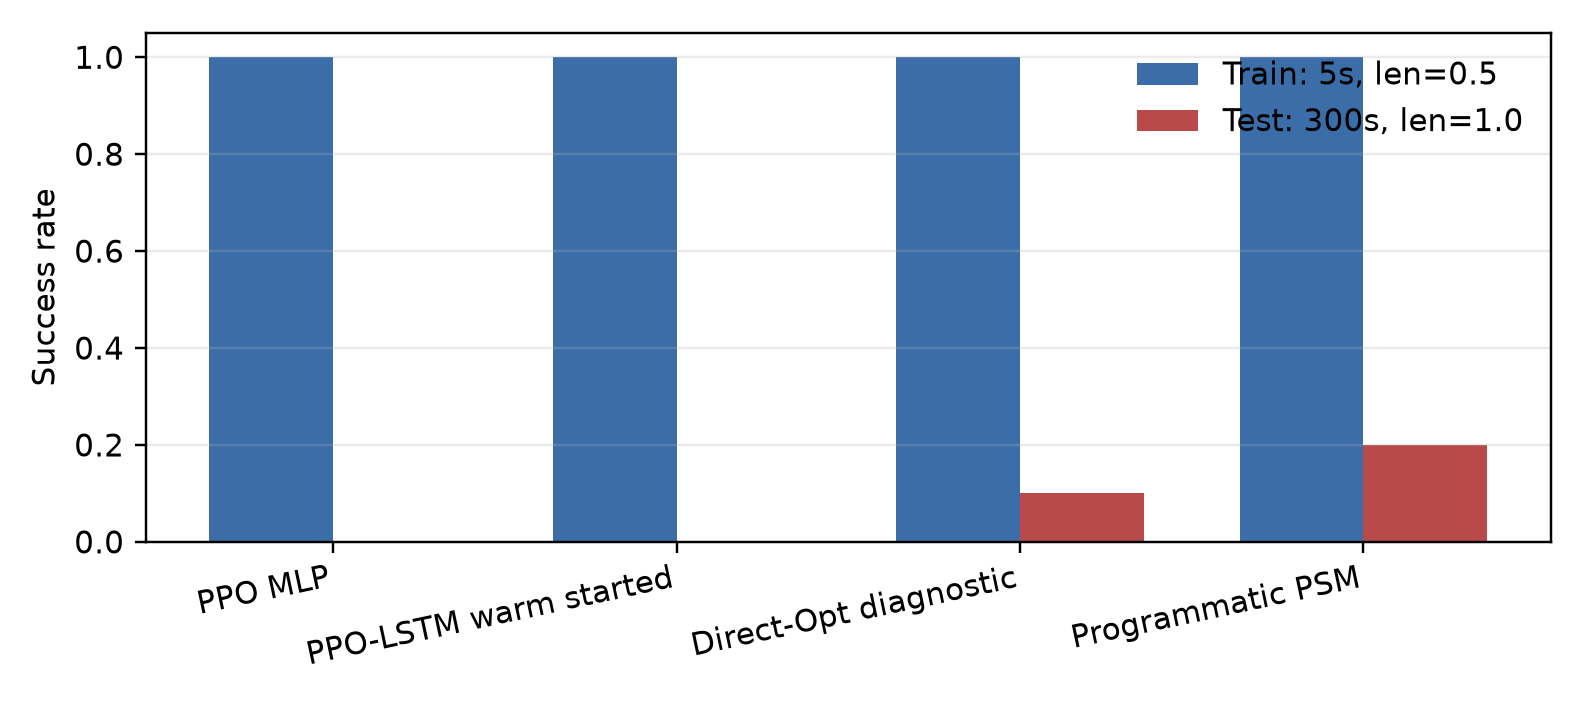
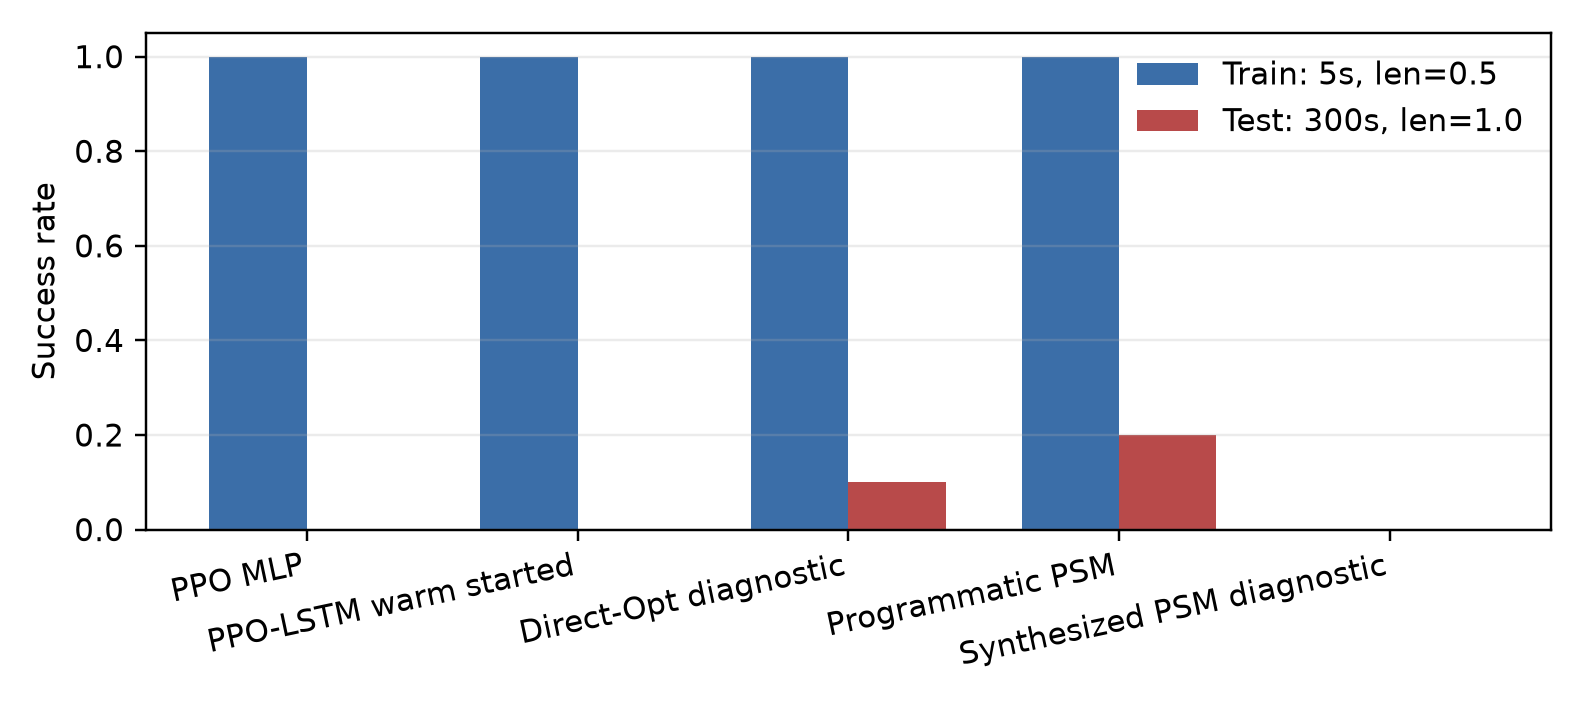
Add CartPole output provenance guards

diff --git a/tests/test_make_paper_figures.py b/tests/test_make_paper_figures.py
@@ -19,6 +19,23 @@ class MakePaperFiguresTest(unittest.TestCase):
         make_paper_figures.require_result_artifacts(rows)
         self.assertTrue(all(row.get("metrics_output") for row in rows))
 
+    def test_essay_manifest_lists_generated_cartpole_artifacts(self):
+        with open(os.path.join(ROOT, "essay", "00README.json"), encoding="utf-8") as handle:
+            manifest = json.load(handle)
+
+        filenames = {source["filename"] for source in manifest["sources"]}
+
+        self.assertIn("cartpole_abstract_results.tex", filenames)
+        self.assertIn("cartpole_results_table.tex", filenames)
+        self.assertIn("cartpole_policy_fragment.tex", filenames)
+        self.assertIn("figures/cartpole_success_rates.png", filenames)
+        self.assertIn("figures/cartpole_test_survival_reward.png", filenames)
+        self.assertIn("figures/programmatic_switch_boundary.png", filenames)
+        self.assertEqual(
+            manifest["process"]["regenerate_generated_artifacts"],
+            ".venv/bin/python scripts/make_paper_figures.py",
+        )
+
     def test_read_results_prefers_summary_csv(self):
         with tempfile.TemporaryDirectory() as tmpdir:
             results_path = os.path.join(tmpdir, "cartpole_results.csv")
@@ -101,6 +118,23 @@ class MakePaperFiguresTest(unittest.TestCase):
                 [{"policy": "PPO MLP", "metrics_output": metrics_path}]
             )
 
+    def test_require_result_artifacts_rejects_short_test_horizon(self):
+        with tempfile.TemporaryDirectory() as tmpdir:
+            metrics_path = os.path.join(tmpdir, "metrics.json")
+            with open(metrics_path, "w", encoding="utf-8") as handle:
+                json.dump({"selected_result": {}}, handle)
+
+            with self.assertRaises(ValueError):
+                make_paper_figures.require_result_artifacts(
+                    [
+                        {
+                            "policy": "PPO MLP",
+                            "metrics_output": metrics_path,
+                            "test_horizon_steps": "100",
+                        }
+                    ]
+                )
+
     def test_require_result_artifacts_rejects_missing_outputs(self):
         with self.assertRaises(FileNotFoundError):
             make_paper_figures.require_result_artifacts(
@@ -126,6 +160,8 @@ class MakePaperFiguresTest(unittest.TestCase):
                 table = handle.read()
 
         self.assertIn("Generated by scripts/make_paper_figures.py", table)
+        self.assertIn("Local diagnostic artifacts only", table)
+        self.assertIn(r"10\textsuperscript{7}-timestep, five-seed PPO/PPO-LSTM protocol", table)
         self.assertIn("Programmatic PSM & 1.00 & 0.20 & 250.0 & 6275.4", table)
         self.assertIn("\\bottomrule", table)
 
@@ -153,6 +189,7 @@ class MakePaperFiguresTest(unittest.TestCase):
                 fragment = handle.read()
 
         self.assertTrue(wrote)
+        self.assertIn("Local diagnostic artifacts only", fragment)
         self.assertIn("feed-forward PPO reaches 100\\% training success", fragment)
         self.assertNotIn("20 rollouts", fragment)
         self.assertIn("obtains 0\\% success", fragment)

diff --git a/scripts/make_paper_figures.py b/scripts/make_paper_figures.py
@@ -31,6 +31,12 @@ LINEAR_SWITCH_RE = re.compile(
     r"(?P<omega>[-+]?\d+(?:\.\d+)?)\*omega >= "
     r"(?P<threshold>[-+]?\d+(?:\.\d+)?)"
 )
+PAPER_TEST_HORIZON_STEPS = 15_000
+LOCAL_DIAGNOSTIC_NOTE = (
+    "Local diagnostic artifacts only; not a paper-scale reproduction of the "
+    "10^7-timestep, five-seed PPO/PPO-LSTM protocol."
+)
+LOCAL_DIAGNOSTIC_TEX_NOTE = LOCAL_DIAGNOSTIC_NOTE.replace("10^7", r"10\textsuperscript{7}")
 
 
 def read_results() -> list[dict[str, str]]:
@@ -59,6 +65,17 @@ def require_result_artifacts(rows: list[dict[str, str]]) -> None:
             "missing result artifacts for generated paper claims: "
             + ", ".join(missing)
         )
+    short_horizon = [
+        row["policy"]
+        for row in rows
+        if row.get("test_horizon_steps")
+        and int(float(row["test_horizon_steps"])) != PAPER_TEST_HORIZON_STEPS
+    ]
+    if short_horizon:
+        raise ValueError(
+            "result rows are not evaluated on the paper 300-second test horizon: "
+            + ", ".join(short_horizon)
+        )
 
 
 def display_policy(name: str) -> str:
@@ -79,6 +96,7 @@ def percent(value: float) -> str:
 def write_results_table(rows: list[dict[str, str]], outpath: str = TABLE_TEX) -> None:
     lines = [
         "% Generated by scripts/make_paper_figures.py from CartPole result artifacts.",
+        f"% {LOCAL_DIAGNOSTIC_NOTE}",
         "\\begin{tabular}{lrrrr}",
         "\\toprule",
         "Policy & Train succ. & Test succ. & Train rew. & Test rew. \\\\",
@@ -92,7 +110,14 @@ def write_results_table(rows: list[dict[str, str]], outpath: str = TABLE_TEX) ->
             f"{metric(row, 'train_reward'):.1f} & "
             f"{metric(row, 'test_reward'):.1f} \\\\"
         )
-    lines.extend(["\\bottomrule", "\\end{tabular}", ""])
+    lines.extend(
+        [
+            "\\bottomrule",
+            "\\end{tabular}",
+            f"\\par\\smallskip\\noindent\\emph{{Note:}} {LOCAL_DIAGNOSTIC_TEX_NOTE}",
+            "",
+        ]
+    )
     with open(outpath, "w", encoding="utf-8") as handle:
         handle.write("\n".join(lines))
 
@@ -118,6 +143,7 @@ def write_abstract_results(rows: list[dict[str, str]], outpath: str = ABSTRACT_R
     psm_test_reward = metric(psm, "test_reward")
     lines = [
         "% Generated by scripts/make_paper_figures.py from CartPole result artifacts.",
+        f"% {LOCAL_DIAGNOSTIC_NOTE}",
         (
             f"In local diagnostics, feed-forward PPO reaches {percent(ppo_train)} training success "
             f"and obtains {percent(ppo_test)} success on the full 300-second test horizon with "

diff --git a/essay/cartpole_results_table.tex b/essay/cartpole_results_table.tex
@@ -1,4 +1,5 @@
 % Generated by scripts/make_paper_figures.py from CartPole result artifacts.
+% Local diagnostic artifacts only; not a paper-scale reproduction of the 10^7-timestep, five-seed PPO/PPO-LSTM protocol.
 \begin{tabular}{lrrrr}
 \toprule
 Policy & Train succ. & Test succ. & Train rew. & Test rew. \\
@@ -7,5 +8,7 @@ PPO MLP & 1.00 & 0.00 & 250.0 & 910.6 \\
 PPO-LSTM warm started & 1.00 & 0.00 & 250.0 & 912.2 \\
 Direct-Opt diagnostic & 1.00 & 0.10 & 250.0 & 4220.1 \\
 Programmatic PSM & 1.00 & 0.20 & 250.0 & 6275.4 \\
+Synthesized PSM diagnostic & 0.00 & 0.00 & 39.5 & 64.8 \\
 \bottomrule
 \end{tabular}
+\par\smallskip\noindent\emph{Note:} Local diagnostic artifacts only; not a paper-scale reproduction of the 10\textsuperscript{7}-timestep, five-seed PPO/PPO-LSTM protocol.

diff --git a/essay/cartpole_abstract_results.tex b/essay/cartpole_abstract_results.tex
@@ -1,2 +1,3 @@
 % Generated by scripts/make_paper_figures.py from CartPole result artifacts.
+% Local diagnostic artifacts only; not a paper-scale reproduction of the 10^7-timestep, five-seed PPO/PPO-LSTM protocol.
 In local diagnostics, feed-forward PPO reaches 100\% training success and obtains 0\% success on the full 300-second test horizon with mean test reward 910.6. The fixed programmatic state machine reaches 100\% training success, obtains 20\% full-horizon test success, and has mean test reward 6275.4.

diff --git a/docs/cartpole_paper_audit.md b/docs/cartpole_paper_audit.md
@@ -222,7 +222,8 @@ split locally. They still do not reproduce the paper-scale PPO/PPO-LSTM protocol
   `essay/cartpole_policy_fragment.tex` and plotting
   `programmatic_switch_boundary.png`; it writes an explicit fallback fragment and skips that figure
   when only non-linear/Boolean-tree switch descriptions are available instead of drawing a hard-coded
-  boundary.
+  boundary. Generated result fragments now carry an explicit local-diagnostic limitation note and
+  refuse rows whose explicit `test_horizon_steps` is not the paper 300-second horizon.
 - PPO hyperparameter search can now be planned or executed through
   `scripts/run_cartpole_ppo_sweep.py`; the runner records the paper search ranges and the chosen
   learning-rate samples in a manifest, records the uncapped job count for the selected search space,
@@ -419,7 +420,8 @@ These checks cover the partial probabilistic Cartpole student, not the complete 
   when present, falls back to raw result rows otherwise, and writes generated abstract-result and
   LaTeX result-table fragments. It also verifies PSM policy-fragment generation,
   switch-boundary parsing/plotting from synthetic metrics, fallback/skip behavior for non-linear
-  switches, PPO metrics-file discovery, and training-curve PNG generation.
+  switches, PPO metrics-file discovery, training-curve PNG generation, local-diagnostic limitation
+  notes, and rejection of explicit non-paper test horizons.
 
 ## Completion Criteria Still Required For Full Paper Claim
 

diff --git a/README.md b/README.md
@@ -243,7 +243,9 @@ the manifest.
   `cartpole_summary.csv` when present, otherwise raw result rows, and rewrites
   the abstract result, table, and PSM policy fragments; if PSM metrics with a
   linear switch exist, it writes the switch-boundary figure from that artifact,
-  and if PPO metrics JSON files exist, it also writes a training-curve figure)
+  and if PPO metrics JSON files exist, it also writes a training-curve figure;
+  generated result fragments carry a local-diagnostic limitation note and reject
+  rows whose explicit `test_horizon_steps` is not the paper 300-second horizon)
 - Paper fidelity audit: `docs/cartpole_paper_audit.md`
 - Result table: `artifacts/results/cartpole_results.csv`
 - Result metrics: `artifacts/results/metrics/`